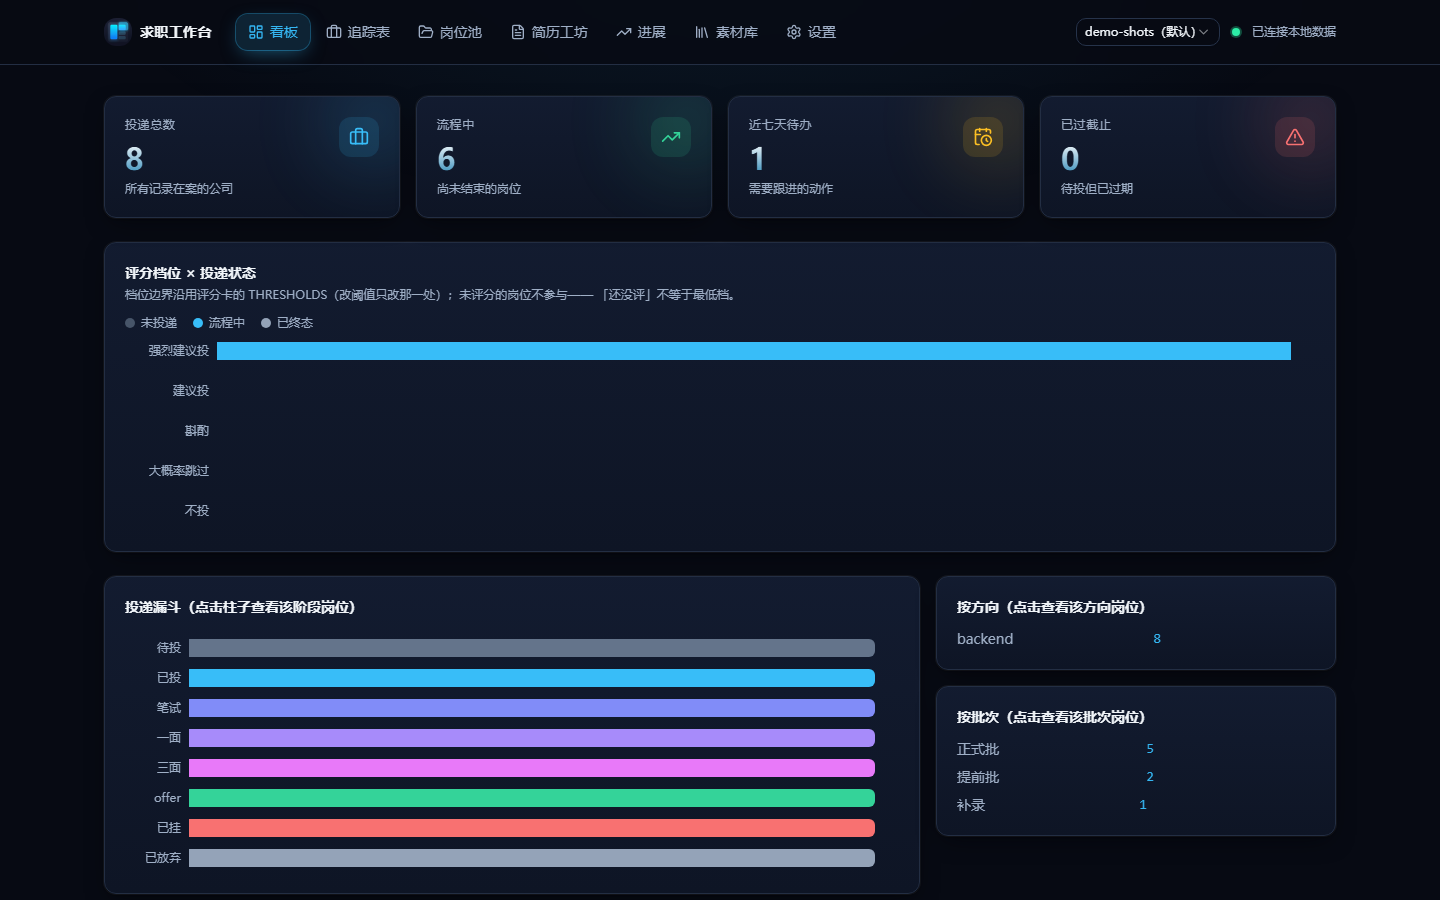
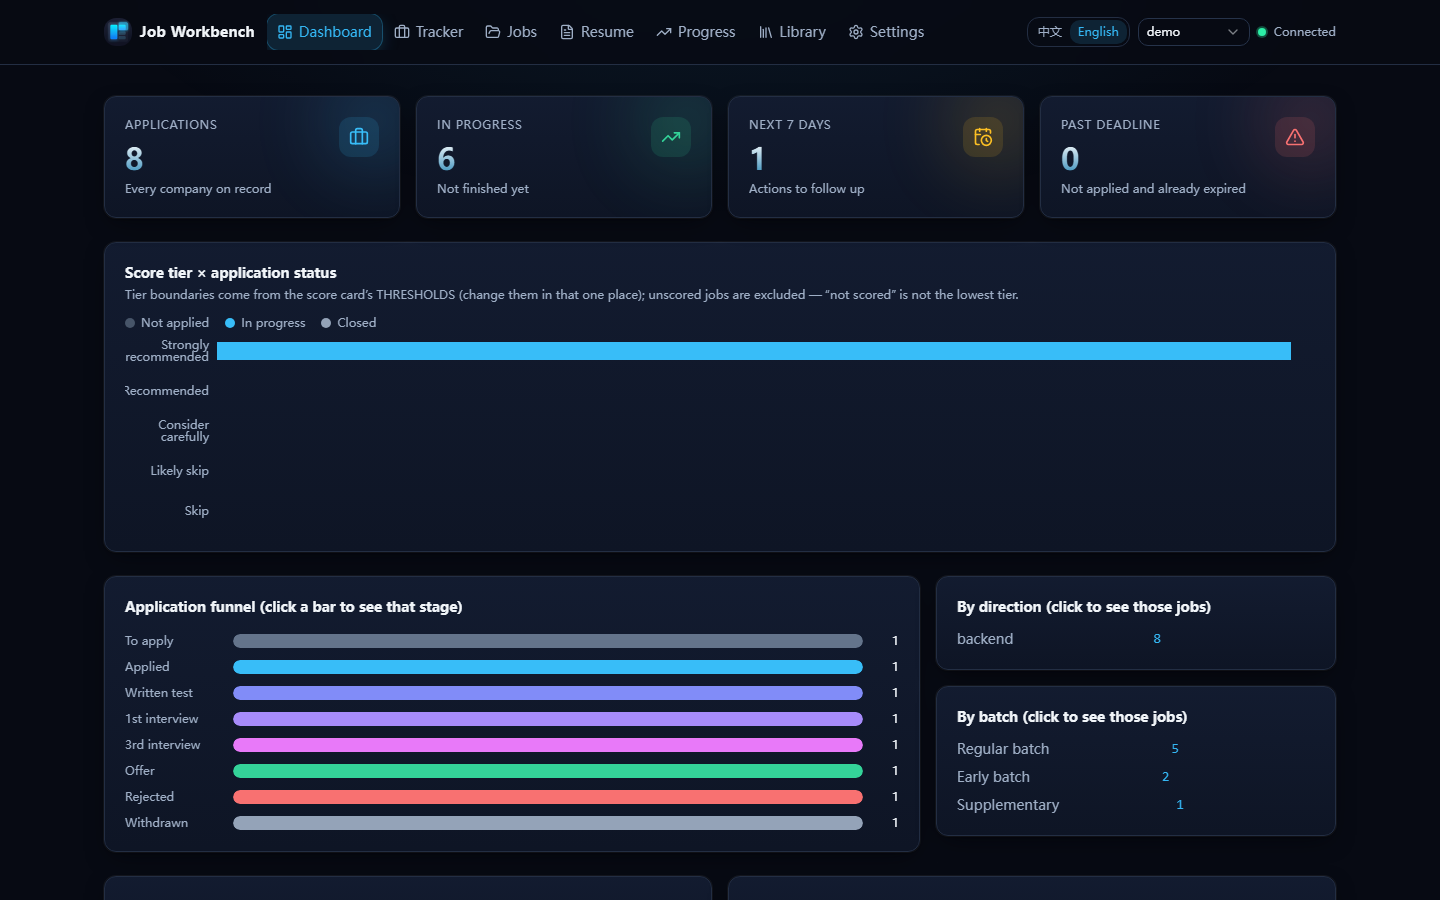
docs(readme): 截图改双语两套（中英各 7 张）并更新中文版引用 (#80)
* docs(readme): 截图改双语两套并更新中文版引用

* docs(changelog): 记录双语文档截图

* docs(readme): 修正英文版对截图语言的表述（审查 MAJOR）

---------

diff --git a/README.md b/README.md
@@ -44,7 +44,7 @@ The workbench turns all of that into queryable, traceable files.
 
 ## UI Preview
 
-> **Note**: the interface is bilingual (简体中文 / English) — switch it with the `中文 / English` control in the header; the first run follows your system language and your choice is remembered. Read the note under [Download](#download) for what stays Chinese by design. The screenshots below are the real interface (Chinese UI, taken with generated demo data).
+> **Note**: the interface is bilingual (简体中文 / English) — switch it with the `中文 / English` control in the header; the first run follows your system language and your choice is remembered. Read the note under [Download](#download) for what stays Chinese by design. The screenshots below are the real interface **in English**, taken with generated demo data — the [Chinese README](README.zh-CN.md) carries the same seven pages in 简体中文 (both sets come from the same demo workspace).
 
 All pages below run on generated demo data (`init_workspace.py --demo`); companies, roles and names are placeholders (`示例科技`, `示例同学`, …) — no real personal information.
 
@@ -101,7 +101,7 @@ This repository contains **no real personal data**. `personal/` is a workspace y
 
 ## Download
 
-> **Note**: the interface is **bilingual** — every page ships in 简体中文 and English, with a `中文 / English` switch in the header (first run follows your system language, and the choice is remembered). The code, the comments, this README and the [usage guide](docs/usage-guide.md) are in English. What stays Chinese **by design**: the values stored in your CSV / Markdown files (stage names, column headers) — they are the shared data contract with the CLI and with your own history, so translating them would desync the UI from your data — plus the CLI's built-in help. The screenshots above show the Chinese UI; the English UI renders the same pages with English chrome.
+> **Note**: the interface is **bilingual** — every page ships in 简体中文 and English, with a `中文 / English` switch in the header (first run follows your system language, and the choice is remembered). The code, the comments, this README and the [usage guide](docs/usage-guide.md) are in English. What stays Chinese **by design**: the values stored in your CSV / Markdown files (stage names, column headers) — they are the shared data contract with the CLI and with your own history, so translating them would desync the UI from your data — plus the CLI's built-in help. The screenshots above show the English UI; the same pages in 简体中文 are in the [Chinese README](README.zh-CN.md).
 
 A packaged Windows desktop app (no Python/Node needed) is attached to the
 latest release — grab `job-workbench-setup-*.exe` from

diff --git a/README.zh-CN.md b/README.zh-CN.md
@@ -42,17 +42,17 @@
 
 ## 界面预览
 
-界面**中英双语**：每一页都有中文与英文，顶栏的 `中文 / English` 可随时切换（首次按系统语言，选择会被记住）。下面截图是中文界面；英文界面是同样页面换了界面文字。仍然保留中文的只有三处：你自己录进工作区的内容、CSV / Markdown 里存的枚举取值（与 CLI 共享的数据契约）、CLI 自带帮助——都有意为之。
+界面**中英双语**：每一页都有中文与英文，顶栏的 `中文 / English` 可随时切换（首次按系统语言，选择会被记住）。下面截图是中文界面（英文的那套在 [README.md](README.md) 同一节，两套取自同一个 demo 工作区）；英文界面是同样页面换了界面文字。仍然保留中文的只有三处：你自己录进工作区的内容、CSV / Markdown 里存的枚举取值（与 CLI 共享的数据契约）、CLI 自带帮助——都有意为之。
 
 以下页面全部由 demo 数据生成（`init_workspace.py --target demo --demo`），公司、岗位、人名均为占位（`示例科技`、`示例同学` 等），不含任何真实信息。
 
-![看板](docs/screenshots/01-dashboard.png)
-![追踪表](docs/screenshots/02-applications.png)
-![岗位池](docs/screenshots/03-jobs.png)
-![简历工坊](docs/screenshots/04-resume.png)
-![进展](docs/screenshots/05-progress.png)
-![素材库](docs/screenshots/06-library.png)
-![设置](docs/screenshots/07-settings.png)
+![看板](docs/screenshots/zh-CN/01-dashboard.png)
+![追踪表](docs/screenshots/zh-CN/02-applications.png)
+![岗位池](docs/screenshots/zh-CN/03-jobs.png)
+![简历工坊](docs/screenshots/zh-CN/04-resume.png)
+![进展](docs/screenshots/zh-CN/05-progress.png)
+![素材库](docs/screenshots/zh-CN/06-library.png)
+![设置](docs/screenshots/zh-CN/07-settings.png)
 
 ## 快速开始
 

diff --git a/CHANGELOG.md b/CHANGELOG.md
@@ -32,6 +32,8 @@
 
 ### Infrastructure（贡献者可见）
 
+- **文档截图改双语两套（共 14 张）**：英文放 `docs/screenshots/`、中文放 `docs/screenshots/zh-CN/`，`README.md` 引英文那套、`README.zh-CN.md` 引中文那套——英文读者不会在主要材料里看到中文界面，中文读者也不用对着英文界面猜。（此前两个 README 共用同一批图，双语之后必然有一方看到的是另一种语言的界面。）图为 `init_workspace.py --demo` 生成的 demo 工作区（合成数据），**本机用户名已遮挡**（设置页快照目录显示为 `C:\Users\<用户名>\…`）。
+
 - 新增 **UI 冒烟** CI job（布局 + a11y，约 40 秒）：CONTRIBUTING 的「不做 Playwright E2E」细化为「不做全量 E2E」，只保留这一个最小冒烟，并写明边界与理由。
 - 新增 **界面 token 一致性扫描器**（`tools/check_ui_tokens.py`）：旧调色板类名、去 token 化的 white/black 透明度、颜色任意值、原生 select 补丁全部机检；顺带把 21 处写死的 `ring-white/5` 等收敛为 `--highlight` / `--scrim` 两个语义 token（**为浅色主题扫清了一类写死色**；浅色主题本身仍未实现，不是本批交付）。
 - **安全策略与依赖更新**：新增 `SECURITY.md`（威胁模型 + 私密报告通道，仓库已开启 Private vulnerability reporting）与 Dependabot 配置（四生态月频 + 分组）；分支保护增加「合并前必须解决所有讨论」。
